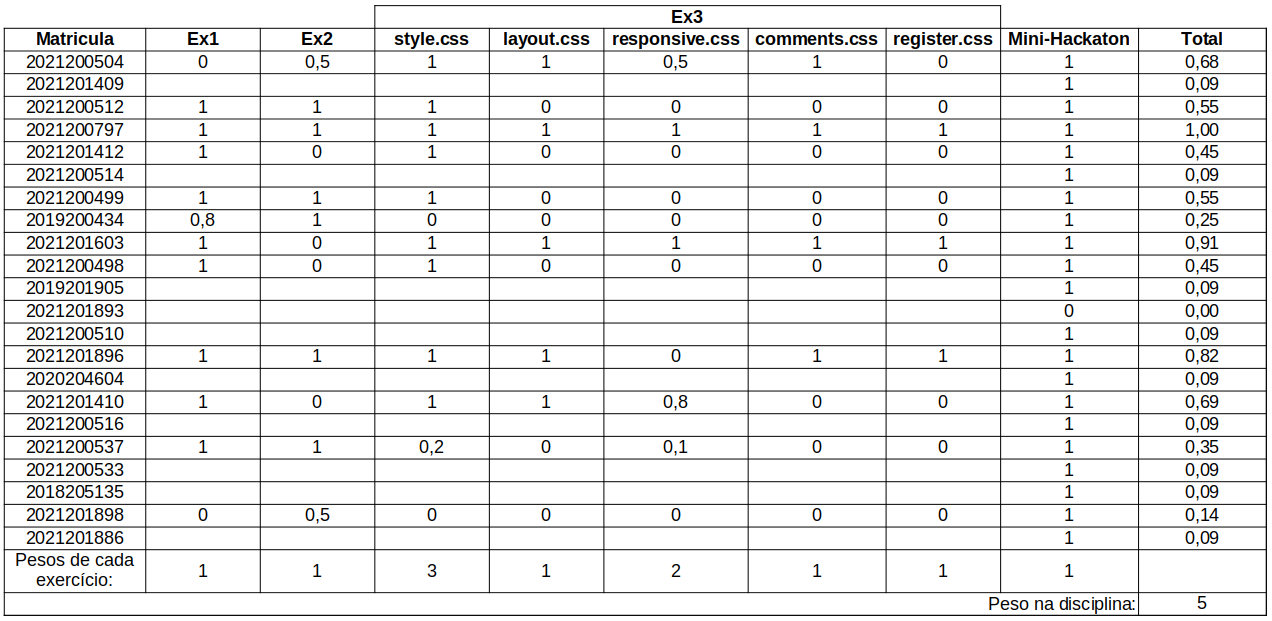
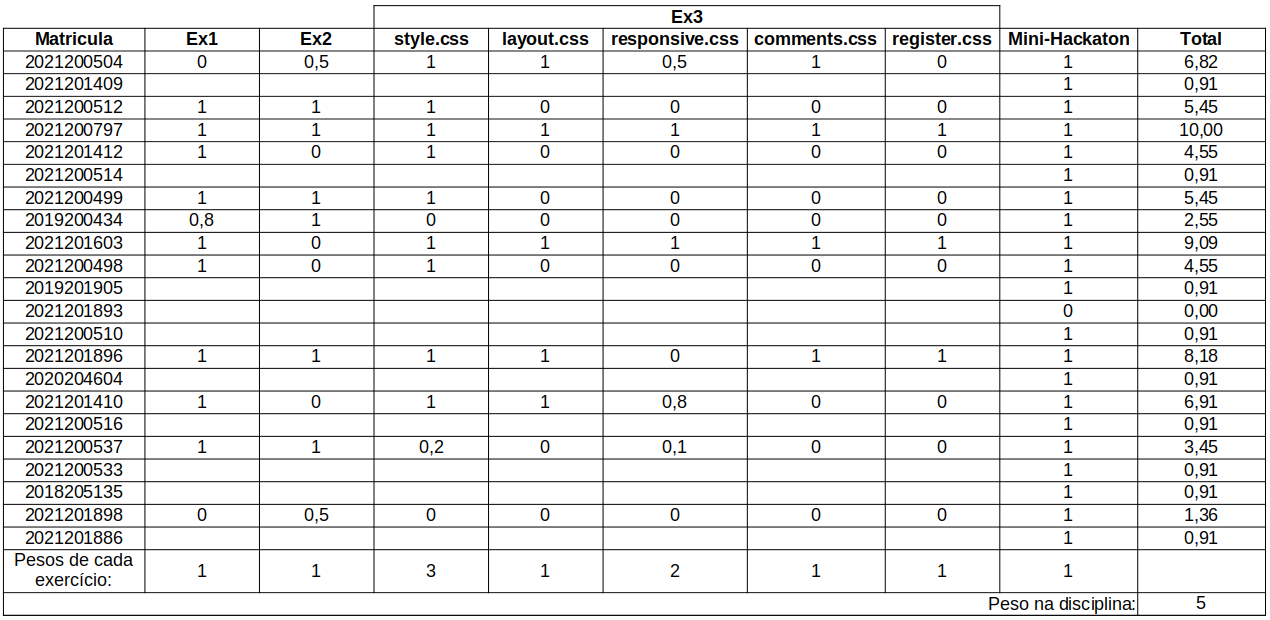
Updating website

diff --git a/_posts/2022-08-14-notas.md b/_posts/2022-08-14-notas.md
@@ -36,7 +36,7 @@ A colunas "**Ex**" representam, de 0 a 1, a fração realizada do que foi pedido
 
 ## Notas dos exercícios (2ª Parte):
 
-A colunas "**Ex**" representam, de 0 a 1, a fração realizada do que foi pedido. Erros mais graves e falta de conteúdo causaram o desconto de nota. O total é calculado através de média ponderada seguindo os pesos informados em cada coluna.
+A colunas "**Ex**" representam, de 0 a 1, a fração realizada do que foi pedido. Erros mais graves e falta de conteúdo causaram o desconto de nota. O total é calculado através de média ponderada seguindo os pesos informados em cada coluna, sendo multiplicado, logo após, por 10.
 
 ![Sumário das notas dos exercícios]({{site.baseurl}}{%link files/notas/sumario_notas_exercicios2.png %})
 
